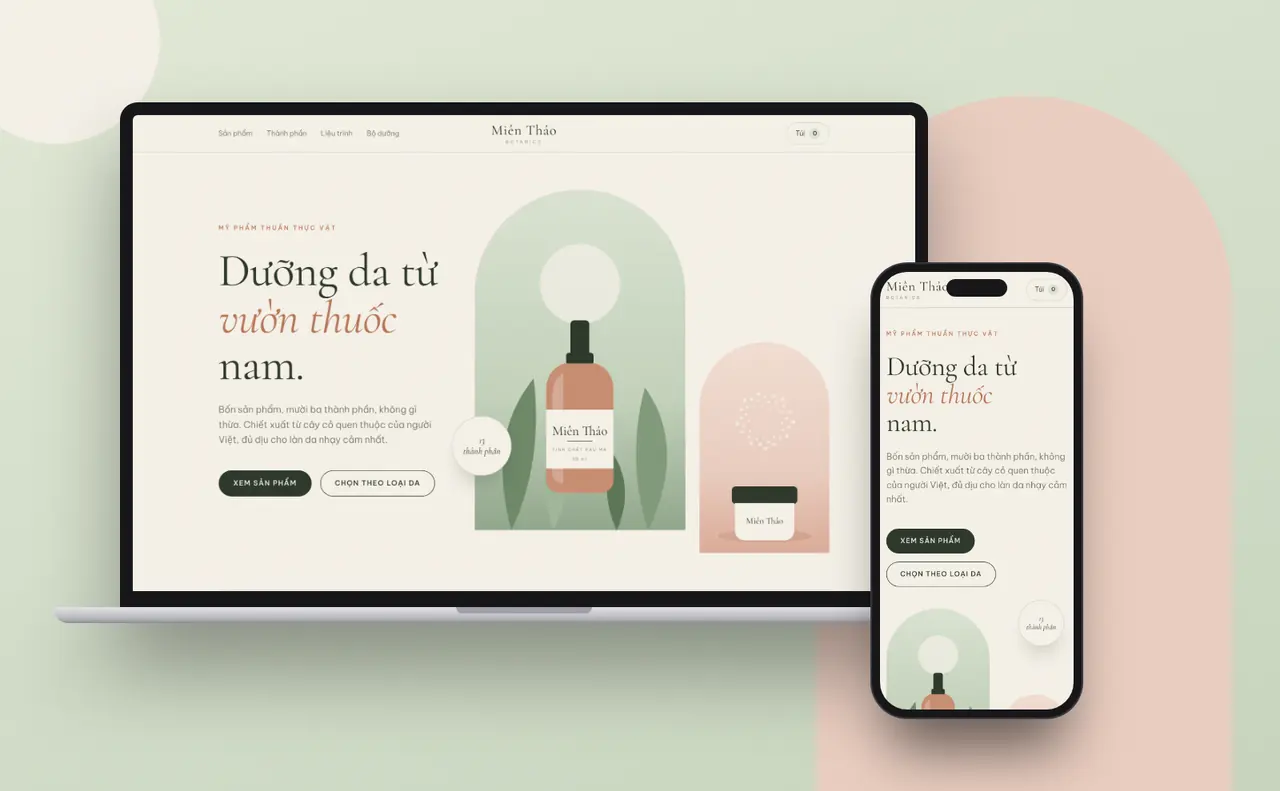
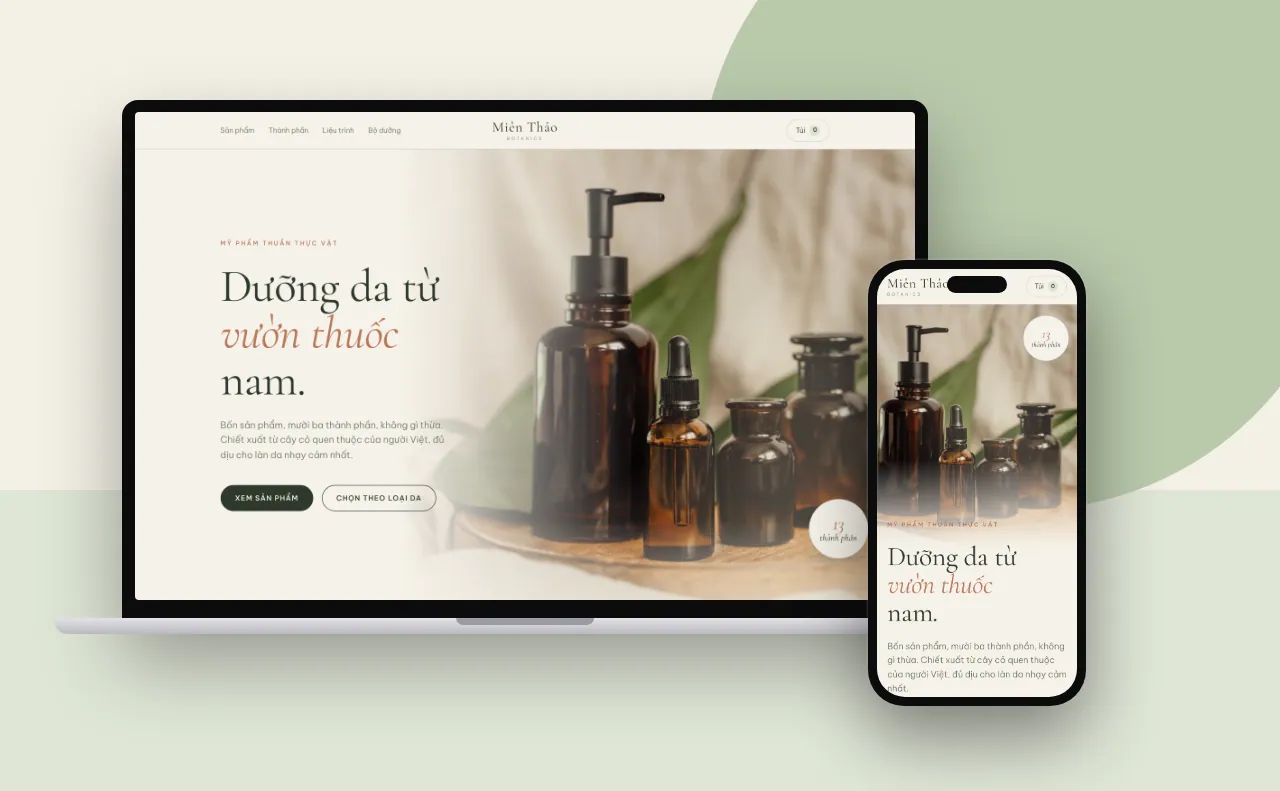
Demo Miên Thảo: ảnh thật, hero vườn thuốc, cảnh ghim từ lá đến lọ với mặt nạ lá và giọt, lookbook thảo mộc
Claude-Session: https://claude.ai/code/session_012QLWn7rvRysGvRwdv6upwG

diff --git a/demos/mien-thao.html b/demos/mien-thao.html
@@ -41,27 +41,72 @@ nav{display:flex;gap:26px;font-size:13px}nav a{opacity:.72;transition:opacity va
 .bagb b.pop{transform:scale(1.618);background:var(--blush)}
 @media(max-width:860px){nav{display:none}header .w{grid-template-columns:auto 1fr}.logo{align-items:flex-start}}
 /* hero */
-.hero{padding:var(--s6) 0 var(--s7);position:relative}
-.hero .g{display:grid;grid-template-columns:1fr 1.618fr;gap:var(--s6);align-items:center}
+.hero{position:relative;padding:0 0 var(--s6)}
+.hs{position:relative;min-height:calc(100vh - 68px);min-height:calc(100svh - 68px);display:flex;align-items:center;overflow:hidden}
+.hv{position:absolute;inset:0 0 0 34%;overflow:hidden}
+.hm{position:absolute;inset:-3%;will-change:transform}
+.hm img{width:100%;height:100%;object-fit:cover;object-position:16% 50%;display:block;animation:kb 16s var(--ease) both}
+@keyframes kb{from{transform:scale(1.14)}}
+.hv::after{content:"";position:absolute;inset:0;background:linear-gradient(90deg,var(--ivory),rgba(246,242,233,.74) 14%,rgba(246,242,233,0) 46%),linear-gradient(0deg,rgba(246,242,233,.55),rgba(246,242,233,0) 18%)}
+.sun{position:absolute;width:52vmax;aspect-ratio:1;border-radius:50%;background:radial-gradient(closest-side,rgba(255,244,214,.46),rgba(255,244,214,0));pointer-events:none;animation:sn 19s ease-in-out infinite alternate}
+.sun.s1{left:-8%;top:-34%}.sun.s2{right:-20%;top:6%;animation-duration:26s;animation-delay:-8s}.sun.s3{left:26%;bottom:-44%;animation-duration:23s;animation-delay:-14s}
+@keyframes sn{from{transform:translate3d(-10%,-6%,0) scale(.9);opacity:.35}to{transform:translate3d(13%,9%,0) scale(1.15);opacity:1}}
+.hero.off .sun,.hero.off .seal{animation-play-state:paused}
+.ht{position:relative;z-index:2;max-width:580px;padding:var(--s5) 0}
 .hero h1{font-size:clamp(53px,5.9vw,89px);line-height:1.02;margin:var(--s4) 0}
-.hero h1 span{display:block;white-space:nowrap;animation:fu var(--d6) var(--ease) both}.hero h1 span:nth-child(2){animation-delay:.162s}.hero h1 span:nth-child(3){animation-delay:.324s}
-@keyframes fu{from{opacity:0;transform:translateY(42px)}}
+.hero h1>span{display:block;white-space:nowrap}
+.wd{display:inline-block}.ch{display:inline-block;font-style:inherit}
+.js .ch{opacity:0;transform:translateY(.55em) rotate(5deg);animation:ch var(--d6) var(--ease) forwards;animation-delay:calc(var(--c)*36ms + .12s)}
+@keyframes ch{to{opacity:1;transform:none}}
 .hero p.l{max-width:38ch;color:var(--muted);font-size:17px}
 .cta{display:flex;flex-wrap:wrap;gap:16px;margin-top:var(--s5)}
-.arches{display:grid;grid-template-columns:1.618fr 1fr;gap:var(--s4);align-items:end;position:relative}
-.arch{border-radius:999px 999px 0 0;overflow:hidden;position:relative}
-.arch.a{aspect-ratio:1/1.618;background:linear-gradient(180deg,var(--sage-l),#c5d3bd 61.8%,var(--sage))}
-.arch.b{aspect-ratio:1/1.618;background:linear-gradient(180deg,#f3dfd4,var(--blush) 61.8%,#dcae9a);transform:translateY(var(--s5))}
-.arch svg{position:absolute;inset:0;width:100%;height:100%}
-.sun{position:absolute;left:50%;top:16%;width:38.2%;aspect-ratio:1;border-radius:50%;background:rgba(246,242,233,.7);transform:translateX(-50%)}
-.leaf{transform-box:fill-box;transform-origin:50% 100%;animation:sway 6.86s ease-in-out infinite alternate}
-.leaf.l2{animation-duration:4.24s;animation-delay:-2s}.leaf.l3{animation-duration:5.5s;animation-delay:-1s}
-@keyframes sway{from{transform:rotate(-4deg)}to{transform:rotate(5deg)}}
-.float{animation:fl 6.86s ease-in-out infinite alternate}@keyframes fl{from{transform:translateY(-6px)}to{transform:translateY(10px)}}
-.seal{position:absolute;left:-42px;bottom:16%;width:110px;height:110px;border-radius:50%;background:var(--ivory);border:1px solid var(--line);display:grid;place-items:center;text-align:center;font-family:var(--fd);font-style:italic;font-size:17px;line-height:1.15;box-shadow:0 26px 42px -26px rgba(46,58,44,.5)}
-.vals{display:grid;grid-template-columns:repeat(3,1fr);gap:var(--s4);margin-top:var(--s7);padding-top:var(--s4);border-top:1px solid var(--line)}
+@keyframes fl{from{transform:translateY(-6px)}to{transform:translateY(10px)}}
+.seal{position:absolute;z-index:2;right:max(20px,6vw);bottom:10%;width:110px;height:110px;border-radius:50%;background:var(--ivory);border:1px solid var(--line);display:grid;place-content:center;text-align:center;font-family:var(--fd);font-style:italic;font-size:17px;line-height:1.15;box-shadow:0 26px 42px -26px rgba(46,58,44,.5);animation:fl 6.86s ease-in-out infinite alternate}
+.seal b{display:block;font-weight:400;font-size:33px;line-height:1;color:var(--clay)}
+.vals{display:grid;grid-template-columns:repeat(3,1fr);gap:var(--s4);margin-top:var(--s5);padding-top:var(--s4);border-top:1px solid var(--line)}
 .vals div{display:flex;gap:16px;align-items:baseline}.vals b{font-family:var(--fd);font-style:italic;font-weight:400;font-size:26px;color:var(--clay)}
-@media(max-width:860px){.hero{padding:var(--s5) 0 var(--s6)}.hero .g{grid-template-columns:1fr;gap:var(--s5)}.seal{left:auto;right:6px;bottom:auto;top:-16px;width:89px;height:89px;font-size:14px}.vals{grid-template-columns:1fr;gap:10px;margin-top:var(--s6)}}
+@media(max-width:860px){.hs{display:block;min-height:0}.hv{position:relative;inset:auto;height:56vh;height:56svh}.hv::after{background:linear-gradient(0deg,var(--ivory),rgba(246,242,233,0) 36%)}.hm img{object-position:50% 50%}.ht{margin-top:-52px;padding:0}.seal{right:16px;bottom:auto;top:16px;width:89px;height:89px;font-size:14px}.seal b{font-size:26px}.vals{grid-template-columns:1fr;gap:10px}}
+/* hành trình: từ lá đến lọ */
+.jr{padding:var(--s7) 0;background:var(--cream)}
+.jp{max-width:1240px;margin:0 auto;padding:0 max(20px,4vw);display:grid;gap:var(--s6)}
+.jh{text-align:center}.jh h2{font-size:clamp(42px,5.6vw,68px);margin-top:16px}
+.ja{display:grid;grid-template-columns:1.618fr 1fr;gap:var(--s5);align-items:center}
+.ja figure{margin:0;border-radius:var(--s4);overflow:hidden;aspect-ratio:3/2}
+.ja:nth-of-type(even) figure{order:2}
+.ja img{width:100%;height:100%;object-fit:cover;display:block}
+.jx b{display:block;font-family:var(--fd);font-style:italic;font-weight:400;font-size:68px;line-height:1;color:var(--clay)}
+.jx b small{font-size:17px;margin-left:10px}
+.jx h3{font-size:clamp(26px,3.2vw,42px);margin:10px 0}.jx p{color:var(--muted);max-width:40ch}
+.jk,.vein{display:none}
+@media(max-width:860px){.jr{padding:var(--s6) 0}.jp{gap:var(--s5)}.ja{grid-template-columns:1fr;gap:var(--s3)}.ja:nth-of-type(even) figure{order:0}.jx b{font-size:53px}}
+.pin .jr{padding:0;height:340vh;height:340svh;background:var(--moss);color:var(--ivory)}
+.pin .jp{position:sticky;top:0;height:100vh;height:100svh;max-width:none;padding:0;display:block;overflow:hidden}
+.pin .ja{position:absolute;inset:0;display:block}
+.pin .ja figure{position:absolute;inset:0;border-radius:0;aspect-ratio:auto;will-change:clip-path}
+.pin .ja figure::after{content:"";position:absolute;inset:0;background:linear-gradient(180deg,rgba(30,38,28,.5),rgba(30,38,28,0) 28%),linear-gradient(72deg,rgba(30,38,28,.88),rgba(30,38,28,.5) 34%,rgba(30,38,28,0) 62%)}
+.pin .ja img{will-change:transform;object-position:var(--op,50% 50%)}
+.pin .jh{position:absolute;z-index:5;left:max(20px,6vw);top:100px;text-align:left}.pin .jh h2{font-size:clamp(26px,3vw,42px);margin-top:6px}.pin .jh em,.pin .jx em{color:var(--blush)}
+.pin .jk{display:block;position:absolute;z-index:5;right:max(20px,6vw);top:106px;font-family:var(--fd);font-style:italic;font-size:22px}
+.pin .vein{display:block;position:absolute;z-index:5;right:max(20px,6vw);bottom:12vh;height:36vh;width:auto;fill:none;stroke:var(--ivory);stroke-width:1;stroke-linecap:round;opacity:.85}
+.pin .jx{position:absolute;left:max(20px,6vw);bottom:12vh;max-width:440px;opacity:0;transform:translateY(26px);transition:opacity var(--d4) var(--ease),transform var(--d5) var(--ease)}
+.pin .ja.on .jx{opacity:1;transform:none;transition-delay:.2s}
+.pin .jx b{color:var(--blush);font-size:clamp(68px,8vw,110px)}.pin .jx p{color:rgba(246,242,233,.86)}
+@media(max-width:860px){.pin .ja figure::after{background:linear-gradient(180deg,rgba(30,38,28,.55),rgba(30,38,28,0) 30%),linear-gradient(0deg,rgba(30,38,28,.92),rgba(30,38,28,.5) 34%,rgba(30,38,28,0) 62%)}.pin .ja img{object-position:var(--om,50% 50%)}.pin .jh{top:84px}.pin .jk{top:90px}.pin .vein{display:none}.pin .jx{bottom:84px;right:20px}.pin .jx b{font-size:53px}}
+/* vườn thuốc: lookbook */
+.lb{overflow:hidden}
+.lr{display:grid;grid-template-columns:repeat(5,1fr);gap:var(--s4);align-items:start;padding-bottom:var(--s5)}
+.lc{margin:0;cursor:pointer}.lc:nth-child(even){margin-top:var(--s6)}
+.lw{position:relative;border-radius:999px 999px var(--s3) var(--s3);overflow:hidden;aspect-ratio:2/3;animation:fl 6.86s ease-in-out infinite alternate paused}
+.lb.run .lw{animation-play-state:running}
+.lc:nth-child(2) .lw{animation-delay:-2s;animation-duration:5.5s}.lc:nth-child(3) .lw{animation-delay:-4s}.lc:nth-child(4) .lw{animation-delay:-1s;animation-duration:4.9s}.lc:nth-child(5) .lw{animation-delay:-3s;animation-duration:6s}
+.lw img{width:100%;height:100%;object-fit:cover;display:block;transition:transform var(--d6) var(--ease)}
+.lw::after{content:"";position:absolute;inset:0;background:linear-gradient(0deg,rgba(46,58,44,.86),rgba(46,58,44,0) 62%);opacity:0;transition:opacity var(--d4) var(--ease)}
+.ln{position:absolute;z-index:1;left:0;right:0;bottom:var(--s4);text-align:center;color:var(--ivory);opacity:0;transform:translateY(16px);transition:opacity var(--d4) var(--ease),transform var(--d4) var(--ease);pointer-events:none}
+.ln b{display:block;font-family:var(--fd);font-style:italic;font-weight:400;font-size:33px;line-height:1.1}.ln span{font-size:10px;letter-spacing:.2em;text-transform:uppercase}
+.lc:hover img,.lc.on img,.lc:focus-visible img{transform:scale(1.07)}
+.lc:hover .lw::after,.lc.on .lw::after,.lc:focus-visible .lw::after{opacity:1}
+.lc:hover .ln,.lc.on .ln,.lc:focus-visible .ln{opacity:1;transform:none}
+@media(max-width:860px){.lr{display:flex;gap:var(--s3);overflow-x:auto;scroll-snap-type:x mandatory;padding:6px 16vw var(--s4);margin:0 calc(-1*max(20px,4vw));scrollbar-width:none}.lr::-webkit-scrollbar{display:none}.lc{flex:0 0 68vw;scroll-snap-align:center}.lc:nth-child(even){margin-top:0}}
 /* marquee */
 .mq{overflow:hidden;white-space:nowrap;border-block:1px solid var(--line);padding:16px 0;font-family:var(--fd);font-style:italic;font-size:clamp(26px,3.4vw,42px);color:var(--sage)}
 .mq div{display:inline-block;animation:mq 42s linear infinite}.mq span{margin:0 26px}.mq span:nth-child(even){font-style:normal;font-size:.5em;vertical-align:middle;color:var(--clay)}
@@ -145,7 +190,7 @@ footer{border-top:1px solid var(--line);padding:var(--s6) 0 var(--s7)}
 .toast{position:fixed;left:50%;bottom:26px;z-index:50;background:var(--moss);color:var(--ivory);padding:12px 26px;border-radius:99px;font-size:14px;transform:translate(-50%,200%);visibility:hidden;transition:transform var(--d3) var(--ease),visibility 0s var(--d3);white-space:nowrap}
 .toast.on{transform:translate(-50%,0);visibility:visible;transition-delay:0s}
 .emb .back{display:none}
-@media(prefers-reduced-motion:reduce){*,*::before,*::after{animation:none!important;transition-duration:.01ms!important}.js [data-r]{opacity:1;transform:none}.draw .dr{stroke-dashoffset:0}}
+@media(prefers-reduced-motion:reduce){*,*::before,*::after{animation:none!important;transition-duration:.01ms!important}.js [data-r],.js .ch{opacity:1;transform:none}.draw .dr{stroke-dashoffset:0}}
 </style>
 </head>
 <body>
@@ -156,49 +201,40 @@ footer{border-top:1px solid var(--line);padding:var(--s6) 0 var(--s7)}
 </div></header>
 
 <main id="top">
-<section class="hero"><div class="w">
- <div class="g">
-  <div>
+<section class="hero" id="hero">
+ <div class="hs">
+  <div class="hv"><div class="hm"><img src="../img/photo/my-pham-7795755.webp" width="2400" height="1600" alt="Bốn chai thủy tinh màu hổ phách đặt trên khay gỗ, phía sau là tàu lá xanh và vải lanh" fetchpriority="high" decoding="async"></div><i class="sun s1"></i><i class="sun s2"></i><i class="sun s3"></i></div>
+  <div class="w"><div class="ht">
    <p class="cap" style="color:var(--clay)">Mỹ phẩm thuần thực vật</p>
    <h1><span>Dưỡng da từ</span><span><em>vườn thuốc</em></span><span>nam.</span></h1>
    <p class="l">Bốn sản phẩm, mười ba thành phần, không gì thừa. Chiết xuất từ cây cỏ quen thuộc của người Việt, đủ dịu cho làn da nhạy cảm nhất.</p>
    <div class="cta"><a class="btn" href="#san-pham">Xem sản phẩm</a><a class="btn o" href="#bo-duong">Chọn theo loại da</a></div>
-  </div>
-  <div class="arches">
-   <div class="arch a" id="pa">
-    <div class="sun"></div>
-    <svg viewBox="0 0 400 647" preserveAspectRatio="xMidYMax slice" aria-label="Chai tinh chất Miên Thảo giữa lá">
-     <g fill="#6f8a69"><path class="leaf" d="M70 647C40 520 60 430 120 360c10 100-6 200-50 287z"/><path class="leaf l2" d="M330 647c40-110 30-200-30-270-16 96-6 186 30 270z" fill="#829b7c"/><path class="leaf l3" d="M150 647c-30-70-20-130 20-180 12 66 4 126-20 180z" fill="#a3b89d"/><path class="leaf l2" d="M270 647c20-60 10-110-24-150-8 56-2 104 24 150z" fill="#5d7858"/></g>
-     <g class="float">
-      <rect x="182" y="250" width="36" height="74" rx="8" fill="#2E3A2C"/><rect x="174" y="312" width="52" height="22" rx="5" fill="#2E3A2C"/>
-      <path d="M170 332h60c22 8 34 26 34 50v170c0 16-10 26-26 26h-76c-16 0-26-10-26-26V382c0-24 12-42 34-50z" fill="#c98f73"/>
-      <path d="M148 392c0-18 6-32 20-42v210c-12 0-20-8-20-18z" fill="#fff" opacity=".25"/>
-      <rect x="136" y="420" width="128" height="112" fill="#F6F2E9"/>
-      <text x="200" y="468" text-anchor="middle" font-family="Cormorant,serif" font-size="25" fill="#2E3A2C">Miên Thảo</text>
-      <path d="M176 480h48" stroke="#2E3A2C" stroke-width=".8"/>
-      <text x="200" y="498" text-anchor="middle" font-family="Be Vietnam Pro,sans-serif" font-size="7" letter-spacing="2.4" fill="#6B7466">TINH CHẤT RAU MÁ</text>
-      <text x="200" y="516" text-anchor="middle" font-family="Be Vietnam Pro,sans-serif" font-size="7" letter-spacing="2" fill="#6B7466">30 ml</text>
-     </g>
-    </svg>
-   </div>
-   <div class="arch b" id="pb">
-    <svg viewBox="0 0 250 404" preserveAspectRatio="xMidYMax slice" aria-hidden="true">
-     <ellipse cx="125" cy="372" rx="90" ry="12" fill="#b9785a" opacity=".25"/>
-     <g class="float" style="animation-delay:-3s"><rect x="62" y="268" width="126" height="34" rx="8" fill="#2E3A2C"/><path d="M68 300h114v52c0 12-8 20-20 20H88c-12 0-20-8-20-20z" fill="#F6F2E9"/><text x="125" y="340" text-anchor="middle" font-family="Cormorant,serif" font-size="17" fill="#2E3A2C">Miên Thảo</text></g>
-     <g id="petals" transform="translate(125 150)" fill="#F6F2E9" opacity=".8"></g>
-    </svg>
-   </div>
-   <div class="seal">13<br>thành phần</div>
-  </div>
+  </div></div>
+  <div class="seal"><b id="sn">13</b>thành phần</div>
  </div>
- <div class="vals"><div data-r><b>i.</b><span>Thuần chay, không thử nghiệm trên động vật</span></div><div data-r style="--i:1"><b>ii.</b><span>Không hương liệu tổng hợp, không cồn khô</span></div><div data-r style="--i:2"><b>iii.</b><span>Chai thủy tinh, nhận lại vỏ để tái dùng</span></div></div>
-</div></section>
+ <div class="w"><div class="vals"><div data-r><b>i.</b><span>Thuần chay, không thử nghiệm trên động vật</span></div><div data-r style="--i:1"><b>ii.</b><span>Không hương liệu tổng hợp, không cồn khô</span></div><div data-r style="--i:2"><b>iii.</b><span>Chai thủy tinh, nhận lại vỏ để tái dùng</span></div></div></div>
+</section>
 
 <div class="mq" aria-hidden="true"><div><span>Rau má</span><span>✦</span><span>Trà xanh</span><span>✦</span><span>Cám gạo</span><span>✦</span><span>Hoa bưởi</span><span>✦</span><span>Nghệ vàng</span><span>✦</span><span>Bồ kết</span><span>✦</span><span>Rau má</span><span>✦</span><span>Trà xanh</span><span>✦</span><span>Cám gạo</span><span>✦</span><span>Hoa bưởi</span><span>✦</span><span>Nghệ vàng</span><span>✦</span><span>Bồ kết</span><span>✦</span></div></div>
+
+<section class="jr" id="hanh-trinh"><div class="jp">
+  <div class="jh"><p class="cap">Hành trình</p><h2>Từ lá <em>đến lọ</em></h2></div>
+  <article class="ja"><figure style="--op:50% 40%;--om:46% 50%"><img src="../img/photo/my-pham-6626976.webp" width="1600" height="1067" alt="Những bó thảo mộc treo ngược trên dây, hong khô trước bức tường màu kem" loading="lazy" decoding="async"></figure><div class="jx"><b><span data-n="9">9</span><small>giờ sáng</small></b><h3>Hái lúc <em>sương vừa tan</em></h3><p>Chỉ lấy lá non, hái trước 9 giờ sáng rồi hong trong bóng râm cho ráo.</p></div></article>
+  <article class="ja"><figure style="--op:50% 50%;--om:58% 50%"><img src="../img/photo/my-pham-5480192.webp" width="1600" height="1067" alt="Hai bàn tay vò thảo mộc khô trên chiếc cối đá, nhìn từ trên xuống" loading="lazy" decoding="async"></figure><div class="jx"><b><span data-n="13">13</span><small>thành phần</small></b><h3>Giã, ép, <em>chưng cất</em></h3><p>Cám gạo ép lạnh, hoa bưởi cất lấy nước. Mười ba thành phần, không gì thừa.</p></div></article>
+  <article class="ja"><figure style="--op:50% 37%;--om:50% 50%"><img src="../img/photo/my-pham-4938449.webp" width="1400" height="2100" alt="Bàn tay cầm ống nhỏ giọt phía trên lọ thủy tinh nâu, cạnh chiếc lá xanh" loading="lazy" decoding="async"></figure><div class="jx"><b><span data-n="42">42</span><small>% rau má</small></b><h3>Đong từng <em>giọt</em></h3><p>Tinh chất chứa 42% rau má. Không hương liệu tổng hợp, không cồn khô.</p></div></article>
+  <article class="ja"><figure style="--op:50% 50%;--om:48% 50%"><img src="../img/photo/my-pham-7795881.webp" width="1600" height="1067" alt="Lọ tinh chất thủy tinh nâu nằm trong khay gỗ bần cùng nhành lá khô trắng trên vải lanh" loading="lazy" decoding="async"></figure><div class="jx"><b><span data-n="4">4</span><small>sản phẩm</small></b><h3>Vào <em>lọ thủy tinh</em></h3><p>Bốn sản phẩm, mỗi thứ làm tốt một việc. Dùng xong gửi lại vỏ để tái dùng.</p></div></article>
+  <div class="jk" id="jk" aria-hidden="true">01 / 04</div>
+  <svg class="vein" id="vein" viewBox="0 0 60 160" aria-hidden="true"><path d="M30 158V14M30 6C4 40 4 112 30 150C56 112 56 40 30 6zM30 128l-13-12M30 128l13-12M30 104l-18-16M30 104l18-16M30 80l-19-17M30 80l19-17M30 56l-15-14M30 56l15-14M30 34l-9-9M30 34l9-9"/></svg>
+</div></section>
 
 <section class="sec" id="san-pham"><div class="w">
  <div class="sh" data-r><p class="cap">Bộ sưu tập</p><h2>Bốn bước, <em>đủ cho mỗi ngày</em></h2><p>Mỗi sản phẩm làm tốt một việc. Dùng riêng hay dùng cùng đều được.</p></div>
  <div class="pg" id="pg"></div>
+</div></section>
+
+<section class="sec lb" id="vuon-thuoc"><div class="w">
+ <div class="sh" data-r><p class="cap">Vườn thuốc</p><h2>Cây cỏ <em>quen thuộc</em></h2><p>Mỗi tấm ảnh giữ một cái tên. Chạm vào để gọi.</p></div>
+ <div class="lr" id="lr" data-r><figure class="lc" tabindex="0"><div class="lw"><img src="../img/photo/my-pham-5480259.webp" width="620" height="930" alt="Bó hoa thảo mộc tím treo phơi trên lưới dây thừng trong gian nhà gỗ" loading="lazy" decoding="async"><div class="ln"><b>Nghệ vàng</b><span>Curcuma longa</span></div></div></figure><figure class="lc" tabindex="0"><div class="lw"><img src="../img/photo/my-pham-7795818.webp" width="620" height="930" alt="Lọ thủy tinh nâu nằm trên tàu lá xanh, cạnh chiếc gương tròn viền gỗ" loading="lazy" decoding="async"><div class="ln"><b>Trà xanh</b><span>Camellia sinensis</span></div></div></figure><figure class="lc" tabindex="0"><div class="lw"><img src="../img/photo/my-pham-7796377.webp" width="620" height="930" alt="Lọ tinh chất màu hổ phách đứng trên phiến lá xanh thẫm, nền tường kem" loading="lazy" decoding="async"><div class="ln"><b>Rau má</b><span>Centella asiatica</span></div></div></figure><figure class="lc" tabindex="0"><div class="lw"><img src="../img/photo/my-pham-7796460.webp" width="620" height="930" alt="Lọ tinh chất đặt trên gương tròn cạnh nhành cây khô màu hồng" loading="lazy" decoding="async"><div class="ln"><b>Cám gạo</b><span>Oryza sativa</span></div></div></figure><figure class="lc" tabindex="0"><div class="lw"><img src="../img/photo/my-pham-8490222.webp" width="620" height="930" alt="Lọ dầu màu vàng nhạt nằm trên hai phiến lá xanh, nền trắng" loading="lazy" decoding="async"><div class="ln"><b>Hoa bưởi</b><span>Citrus maxima</span></div></div></figure></div>
 </div></section>
 
 <section class="sec ing" id="thanh-phan"><div class="w">
@@ -234,7 +270,7 @@ footer{border-top:1px solid var(--line);padding:var(--s6) 0 var(--s7)}
 
 <footer><div class="w">
  <div class="fg"><div><div class="big">Miên Thảo</div></div><div><h4>Xưởng</h4><p>Số 21 đường Vườn Thuốc<br>Hội An, Quảng Nam</p></div><div><h4>Liên hệ</h4><p>hello@mienthao.example<br>0900 000 000</p></div></div>
- <div class="cpt"><span>Miên Thảo là thương hiệu concept. Website mẫu do <a href="../index.html" target="_top" style="text-decoration:underline">Dream Labs</a> thiết kế, mọi thông tin chỉ để minh họa.</span><span>© 2026</span></div>
+ <div class="cpt"><span>Miên Thảo là thương hiệu concept. Website mẫu do <a href="../index.html" target="_top" style="text-decoration:underline">Dream Labs</a> thiết kế, mọi thông tin chỉ để minh họa. Ảnh chụp lấy từ thư viện Pexels để minh họa không khí; trang không bán hàng thật.</span><span>© 2026</span></div>
 </div></footer>
 <a class="back" href="../index.html">← Dream Labs</a>
 <div class="toast" id="toast" role="status"></div>
@@ -244,8 +280,6 @@ footer{border-top:1px solid var(--line);padding:var(--s6) 0 var(--s7)}
 document.documentElement.classList.add('js');if(parent!==window)document.documentElement.classList.add('emb');
 const $=(s,r=document)=>r.querySelector(s),$$=(s,r=document)=>[...r.querySelectorAll(s)];
 const GA=137.508*Math.PI/180,vnd=n=>n.toLocaleString('vi-VN')+'đ';
-/* cánh hoa hero */
-$('#petals').innerHTML=Array.from({length:55},(_,i)=>{const r=7.4*Math.sqrt(i+1),t=(i+1)*GA;return `<circle cx="${(r*Math.cos(t)).toFixed(1)}" cy="${(r*Math.sin(t)).toFixed(1)}" r="${(1+i/55*3.2).toFixed(1)}"/>`}).join('');
 /* sản phẩm */
 const shape=[c=>`<rect x="48" y="6" width="24" height="46" rx="5" fill="#2E3A2C"/><rect x="43" y="46" width="34" height="14" rx="3" fill="#2E3A2C"/><path d="M40 58h40c14 5 20 15 20 30v88c0 10-6 16-16 16H36c-10 0-16-6-16-16V88c0-15 6-25 20-30z" fill="${c}"/><rect x="20" y="104" width="80" height="62" fill="#F6F2E9"/>`,
  c=>`<rect x="14" y="84" width="92" height="30" rx="7" fill="#2E3A2C"/><path d="M18 112h84v60c0 12-8 20-20 20H38c-12 0-20-8-20-20z" fill="${c}"/><rect x="18" y="130" width="84" height="38" fill="#F6F2E9"/>`,
@@ -290,7 +324,44 @@ $('#tf').addEventListener('submit',e=>{e.preventDefault();const ok=$$('#tf .fld'
 const els=$$('[data-r]');let drawn=false;
 if('IntersectionObserver' in window){const io=new IntersectionObserver(es=>es.forEach(e=>{if(e.isIntersecting){e.target.classList.add('in');io.unobserve(e.target);if(e.target.classList.contains('draw')&&!drawn){drawn=true;setI(0)}}}),{threshold:.12,rootMargin:'0px 0px -6% 0px'});els.forEach(el=>io.observe(el))}else els.forEach(el=>el.classList.add('in'));
 if(!drawn){$('#dw').innerHTML=D[0]().replace(/class="dr"/g,'');$$('#acc button')[0].classList.add('on');$$('#acc .pn')[0].classList.add('on')}
-if(!matchMedia('(prefers-reduced-motion: reduce)').matches&&matchMedia('(min-width:861px)').matches){const a=$('#pb');let tk=false;addEventListener('scroll',()=>{if(tk)return;tk=true;requestAnimationFrame(()=>{tk=false;const y=Math.min(scrollY,900);a.style.transform=`translateY(${42-y*.1}px)`})},{passive:true})}
+/* ===== motion: vườn thuốc, giọt và lá ===== */
+const rm=matchMedia('(prefers-reduced-motion: reduce)').matches,E=document.documentElement,cl=(v,a=0,b=1)=>Math.min(b,Math.max(a,v));
+const cnt=(el,to)=>{if(rm){el.textContent=to;return}const t0=performance.now();(function f(t){const k=cl((t-t0)/1100);el.textContent=Math.round(to*(1-Math.pow(1-k,4)));k<1&&requestAnimationFrame(f)})(t0)};
+const vis=(el,fn,m='0px')=>'IntersectionObserver' in window&&new IntersectionObserver(es=>es.forEach(e=>fn(e.isIntersecting,e)),{rootMargin:m}).observe(el);
+const hero=$('#hero'),hm=$('.hm'),desk=matchMedia('(min-width:861px)').matches,fine=matchMedia('(hover:hover) and (pointer:fine)').matches;
+if(!rm){let c=0;$$('.hero h1>span').forEach(l=>{const t=$('em',l)||l;t.innerHTML=t.textContent.split(' ').map(w=>`<span class="wd">${[...w].map(x=>`<i class="ch" style="--c:${c++}">${x}</i>`).join('')}</span>`).join(' ');c+=2});setTimeout(()=>cnt($('#sn'),13),700)}
+let hOn=true;vis(hero,v=>{hOn=v;hero.classList.toggle('off',!v)});
+/* từ lá đến lọ: ghim bằng sticky, mở ảnh bằng mặt nạ hình lá / hình giọt */
+const jr=$('#hanh-trinh'),jp=$('.jp',jr),ja=$$('.ja',jr),pin=!rm&&window.CSS&&CSS.supports('clip-path','polygon(0 0,1px 0,0 1px)')&&CSS.supports('position','sticky');
+const shp=(m,k,wx,rot)=>{const a=[],c=Math.cos(rot),s=Math.sin(rot);for(let i=0;i<44;i++){const t=i/44*2*Math.PI,x=Math.sin(t)*Math.pow(Math.sin(t/2),m)*Math.pow(Math.abs(Math.sin(t)),k)*wx,y=-Math.cos(t)*1.25;a.push([x*c-y*s,x*s+y*c])}return{a,r:Math.min(...a.map(p=>Math.hypot(p[0],p[1])))}};
+const SH=[0,shp(.5,.35,.74,.5),shp(1.5,0,1.15,0),shp(.5,.35,.74,-.5)];
+let jc=0,jt=0,jOn=false,jI=-1,jRun=false;
+const jSet=i=>{if(i===jI)return;jI=i;ja.forEach((a,n)=>a.classList.toggle('on',n===i));$('#jk').textContent='0'+(i+1)+' / 04';const n=$('[data-n]',ja[i]);cnt(n,+n.dataset.n)};
+const jDraw=p=>{const W=jp.clientWidth,H=jp.clientHeight,ox=W*(W>860?.62:.5),oy=H*(W>860?.5:.4),D=Math.hypot(Math.max(ox,W-ox),Math.max(oy,H-oy));let act=0;
+ ja.forEach((a,k)=>{const f=a.firstElementChild,im=f.firstElementChild;if(!k){im.style.transform=`scale(${(1.12-.12*p).toFixed(4)})`;return}
+  const q=cl((p*3-(k-1)-.12)/.8),s=D/SH[k].r*1.04*q*q*(1.6-.6*q);if(q>.42)act=k;
+  f.style.visibility=q>0?'visible':'hidden';f.style.clipPath=q>=1?'none':'polygon('+SH[k].a.map(v=>(ox+v[0]*s).toFixed(1)+'px '+(oy+v[1]*s).toFixed(1)+'px').join(',')+')';
+  im.style.transform=`scale(${(1.2-.2*q).toFixed(4)})`});
+ $('#vein').style.clipPath=`inset(${((1-p)*100).toFixed(1)}% 0 0 0)`;jSet(act)};
+const jLoop=()=>{jc+=(jt-jc)*.12;if(Math.abs(jt-jc)<.0004)jc=jt;jDraw(jc);if(jc!==jt&&jOn&&!document.hidden)requestAnimationFrame(jLoop);else jRun=false};
+if(pin){E.classList.add('pin');vis(jr,v=>{jOn=v;v&&tick()},'20% 0px')}
+/* lookbook: trôi nhẹ, lệch tầng theo cuộn, chạm để gọi tên */
+const lb=$('#vuon-thuoc'),lr=$('#lr'),lc=$$('.lc',lr),LS=[-.07,.05,-.04,.08,-.06];let lOn=false;
+vis(lb,v=>{lOn=v;lb.classList.toggle('run',v&&!rm)},'10% 0px');
+lr.addEventListener('click',e=>{const c=e.target.closest('.lc');if(!c)return;if(desk)c.classList.toggle('on');else c.scrollIntoView({behavior:rm?'auto':'smooth',inline:'center',block:'nearest'})});
+lr.addEventListener('keydown',e=>{if(e.key==='Enter'||e.key===' '){e.preventDefault();e.target.classList.toggle('on')}});
+if(!desk&&'IntersectionObserver' in window){const lo=new IntersectionObserver(es=>es.forEach(e=>e.target.classList.toggle('on',e.isIntersecting)),{root:lr,threshold:.8});lc.forEach(c=>lo.observe(c))}
+/* một vòng cuộn chung */
+let mx=0,my=0,cx=0,cy=0,tk=false,mRun=false;
+const hSet=()=>{hm.style.transform=`translate3d(${(-cx*24).toFixed(1)}px,${(Math.min(scrollY,900)*.08-cy*14).toFixed(1)}px,0)`};
+function tick(){if(tk)return;tk=true;requestAnimationFrame(()=>{tk=false;const vh=innerHeight;
+ if(hOn&&!rm&&desk)hSet();
+ if(pin&&jOn){jt=cl(-jr.getBoundingClientRect().top/(jr.offsetHeight-jp.clientHeight));if(!jRun){jRun=true;jLoop()}}
+ if(lOn&&!rm&&desk){const r=lb.getBoundingClientRect(),d=r.top+r.height/2-vh/2;lc.forEach((c,i)=>c.style.transform=`translate3d(0,${(d*LS[i]).toFixed(1)}px,0)`)}})}
+addEventListener('scroll',tick,{passive:true});addEventListener('resize',()=>{jc=jt-.001;tick()});
+if(!rm&&desk&&fine){const mLoop=()=>{cx+=(mx-cx)*.06;cy+=(my-cy)*.06;hSet();if(Math.abs(mx-cx)+Math.abs(my-cy)>.002&&hOn)requestAnimationFrame(mLoop);else mRun=false};
+ hero.addEventListener('pointermove',e=>{mx=e.clientX/innerWidth-.5;my=e.clientY/innerHeight-.5;if(!mRun){mRun=true;mLoop()}})}
+if(pin)jDraw(0);tick();
 try{parent!==window&&parent.postMessage({wkDemo:'mien-thao'},'*')}catch(e){}
 })();
 </script>
